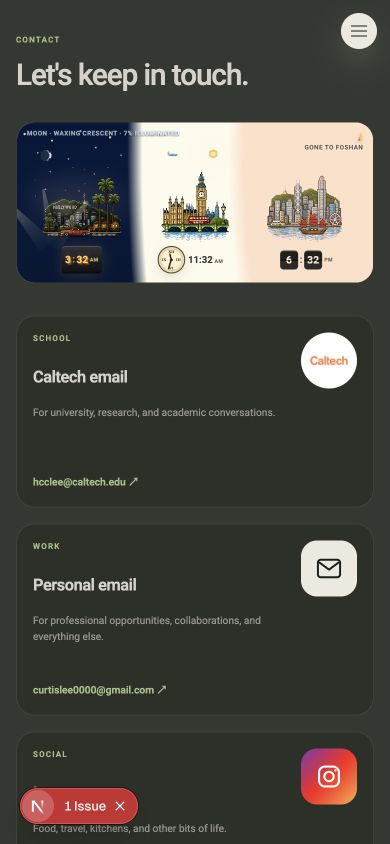
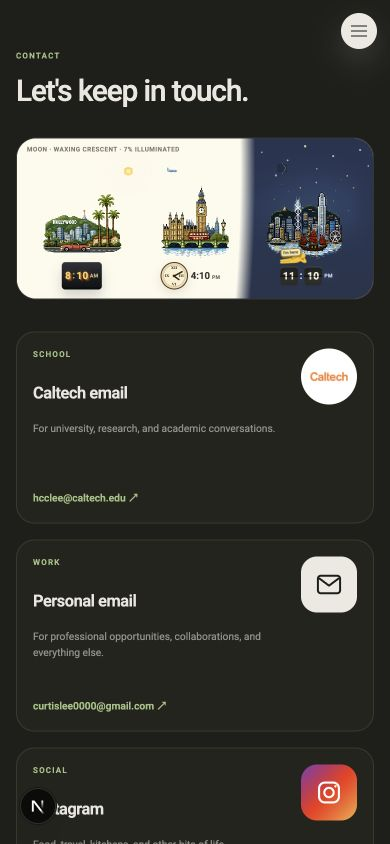
Move Contact artwork beside heading

diff --git a/app/contact/page.tsx b/app/contact/page.tsx
@@ -2,7 +2,6 @@ import type { Metadata } from "next";
 import Image from "next/image";
 import { ContactCityArtwork } from "@/components/contact-city-artwork";
 import { ContactPresenceProvider } from "@/components/contact-presence";
-import { PageIntro } from "@/components/page-intro";
 
 export const metadata: Metadata = { title: "Contact" };
 
@@ -89,17 +88,19 @@ function ContactIcon({ icon }: { icon: (typeof contactLinks)[number]["icon"] }) 
 export default function ContactPage() {
   return (
     <>
-      <PageIntro
-        eyebrow="Contact"
-        title="Let&apos;s keep in touch."
-      />
-
-      <section className="page-section pt-12 sm:pt-16">
-        <div className="contact-cities design-panel mb-8 scroll-mt-24 overflow-hidden rounded-[1.75rem] border border-ink/10 bg-surface/55" id="contact-cities">
+      <section className="page-shell grid items-center gap-8 pt-12 sm:pt-14 lg:grid-cols-[minmax(16rem,0.7fr)_minmax(0,1.3fr)] lg:gap-12 lg:pt-16">
+        <div>
+          <p className="eyebrow">Contact</p>
+          <h1 className="display-title mt-3">Let&apos;s keep in touch.</h1>
+        </div>
+        <div className="design-panel scroll-mt-24 overflow-hidden rounded-[1.75rem] border border-ink/10 bg-surface/55" id="contact-cities">
           <ContactPresenceProvider>
             <ContactCityArtwork editable />
           </ContactPresenceProvider>
         </div>
+      </section>
+
+      <section className="page-section pt-12 sm:pt-16">
         <div className="grid scroll-mt-24 gap-4 sm:grid-cols-2" id="contact-links">
           {contactLinks.map((contact) => (
             <a
